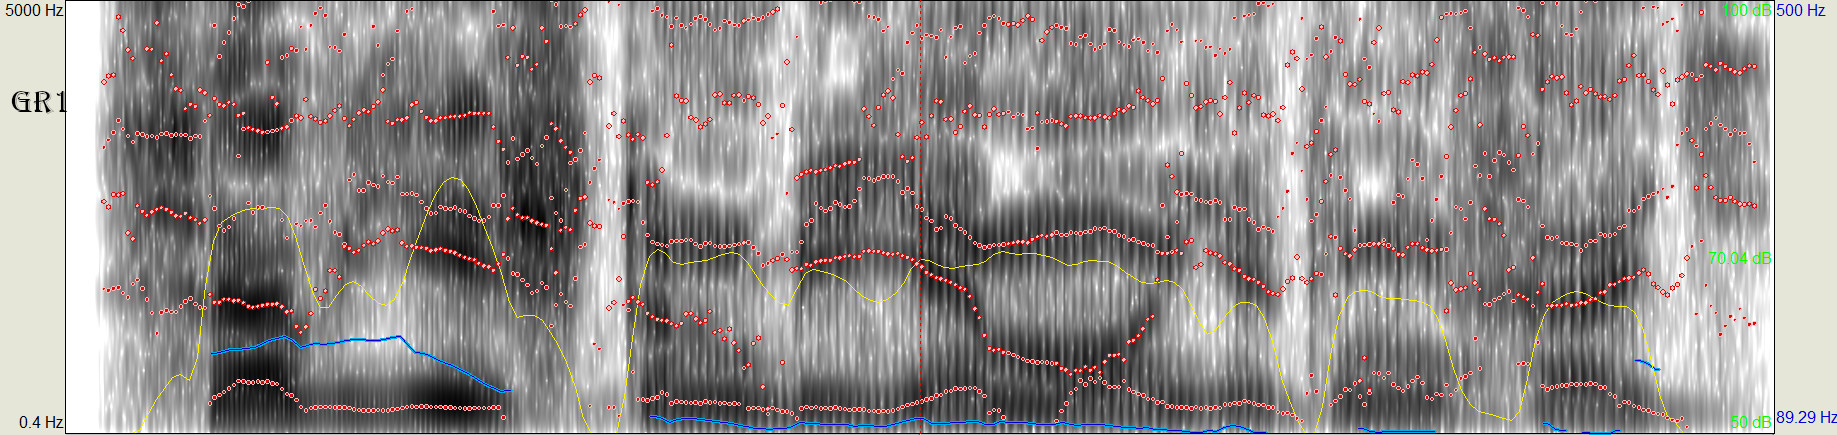
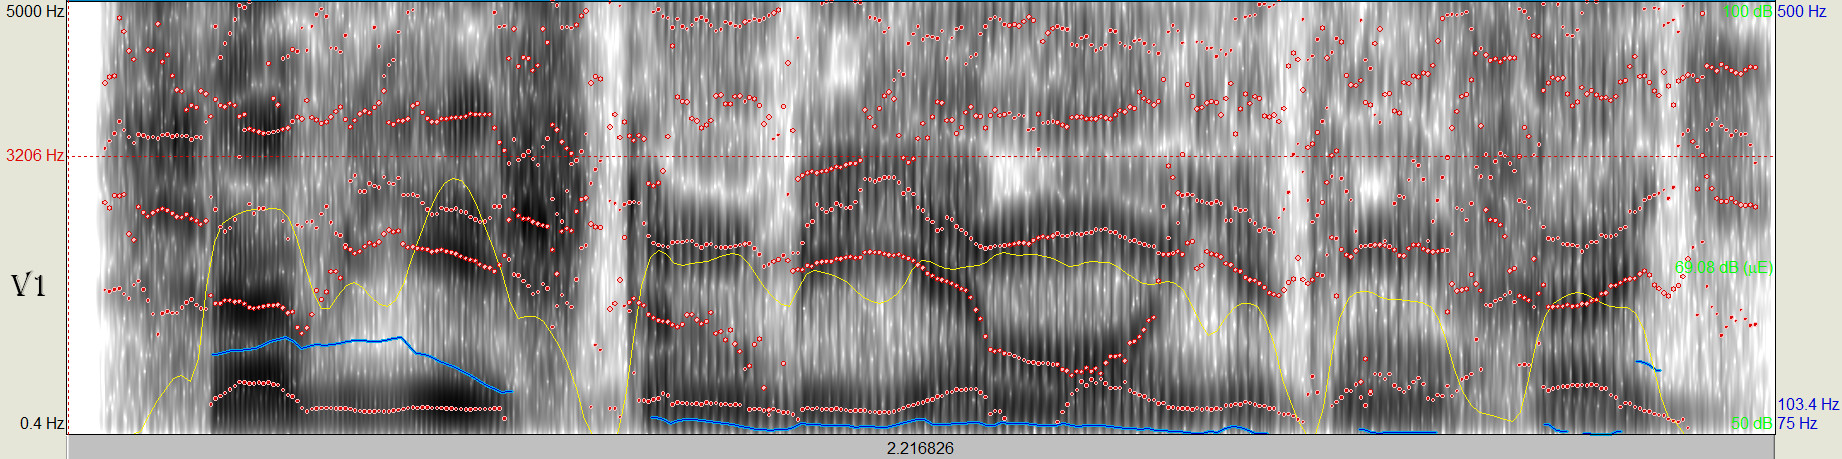
rwrywrywr

diff --git a/sounds/replicationTutorial/replicationTut.html b/sounds/replicationTutorial/replicationTut.html
@@ -20,14 +20,14 @@
     <img src="gr1.jpg" alt="" width="" height=""><br>    
     <audio controls><source src="gr1.mp3" type="audio/ogg"></audio>
     </p>
-    <h2>v1r1</h2>
+    <!--<h2>v1r1</h2>
     <p>
     <img src="mgr1.jpg" alt="" width="" height=""><br>    
     <audio controls><source src="mgr1.mp3" type="audio/ogg"></audio>
-    </p>
+    </p>-->
     <h2>v1r2</h2>
     <p>
-    <!--<img src="mgr1.jpg" alt="" width="" height=""><br>-->    
+    <img src="v1r2.jpg" alt="" width="" height=""><br>    
     <audio controls><source src="v1r2.mp3" type="audio/ogg"></audio>
     </p>
     
